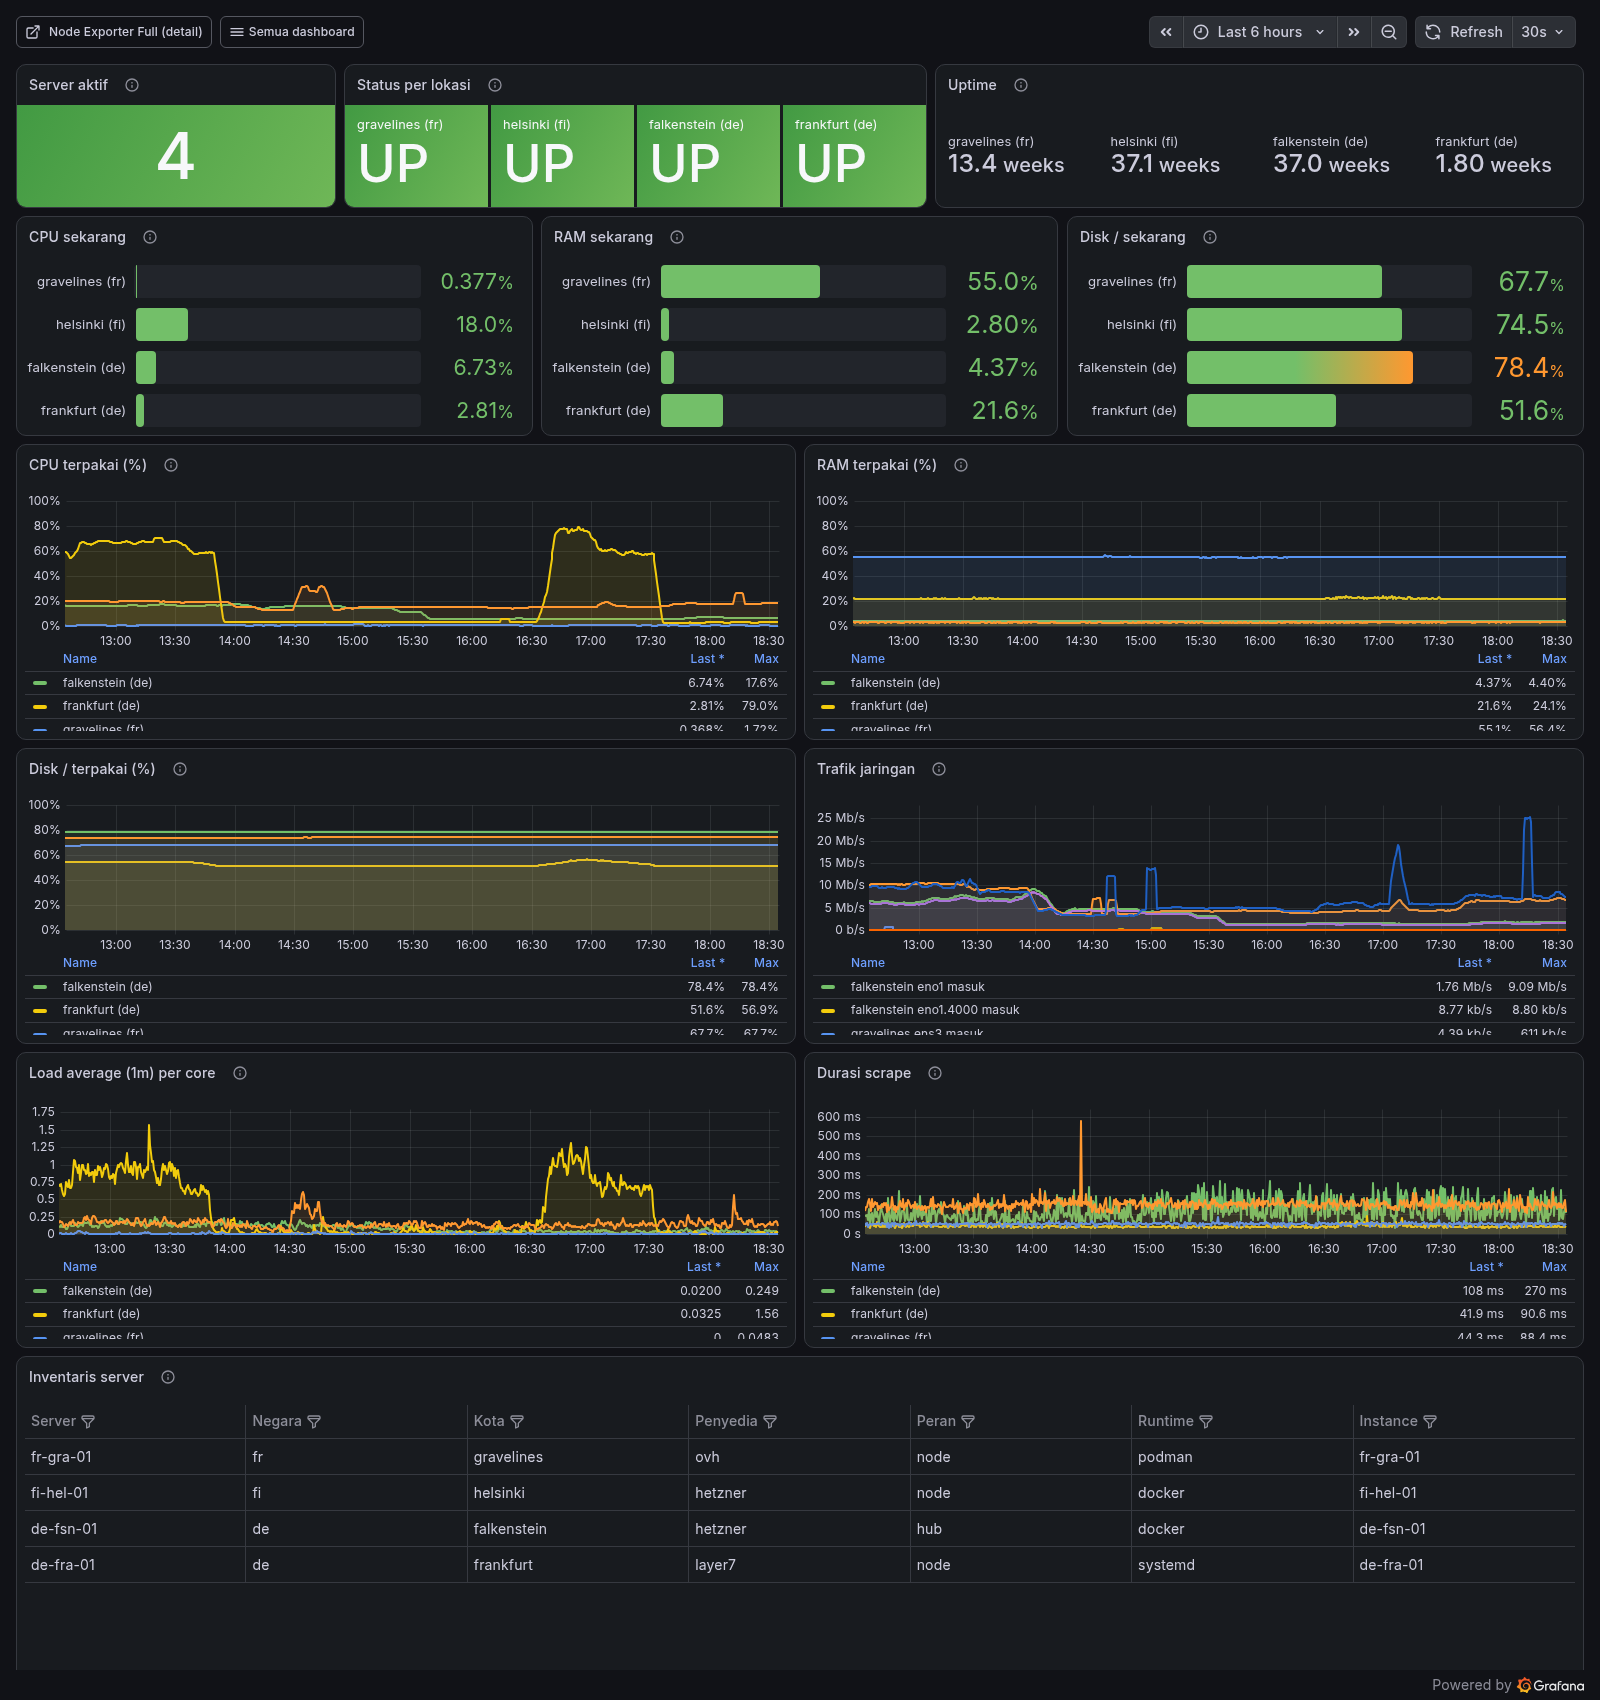
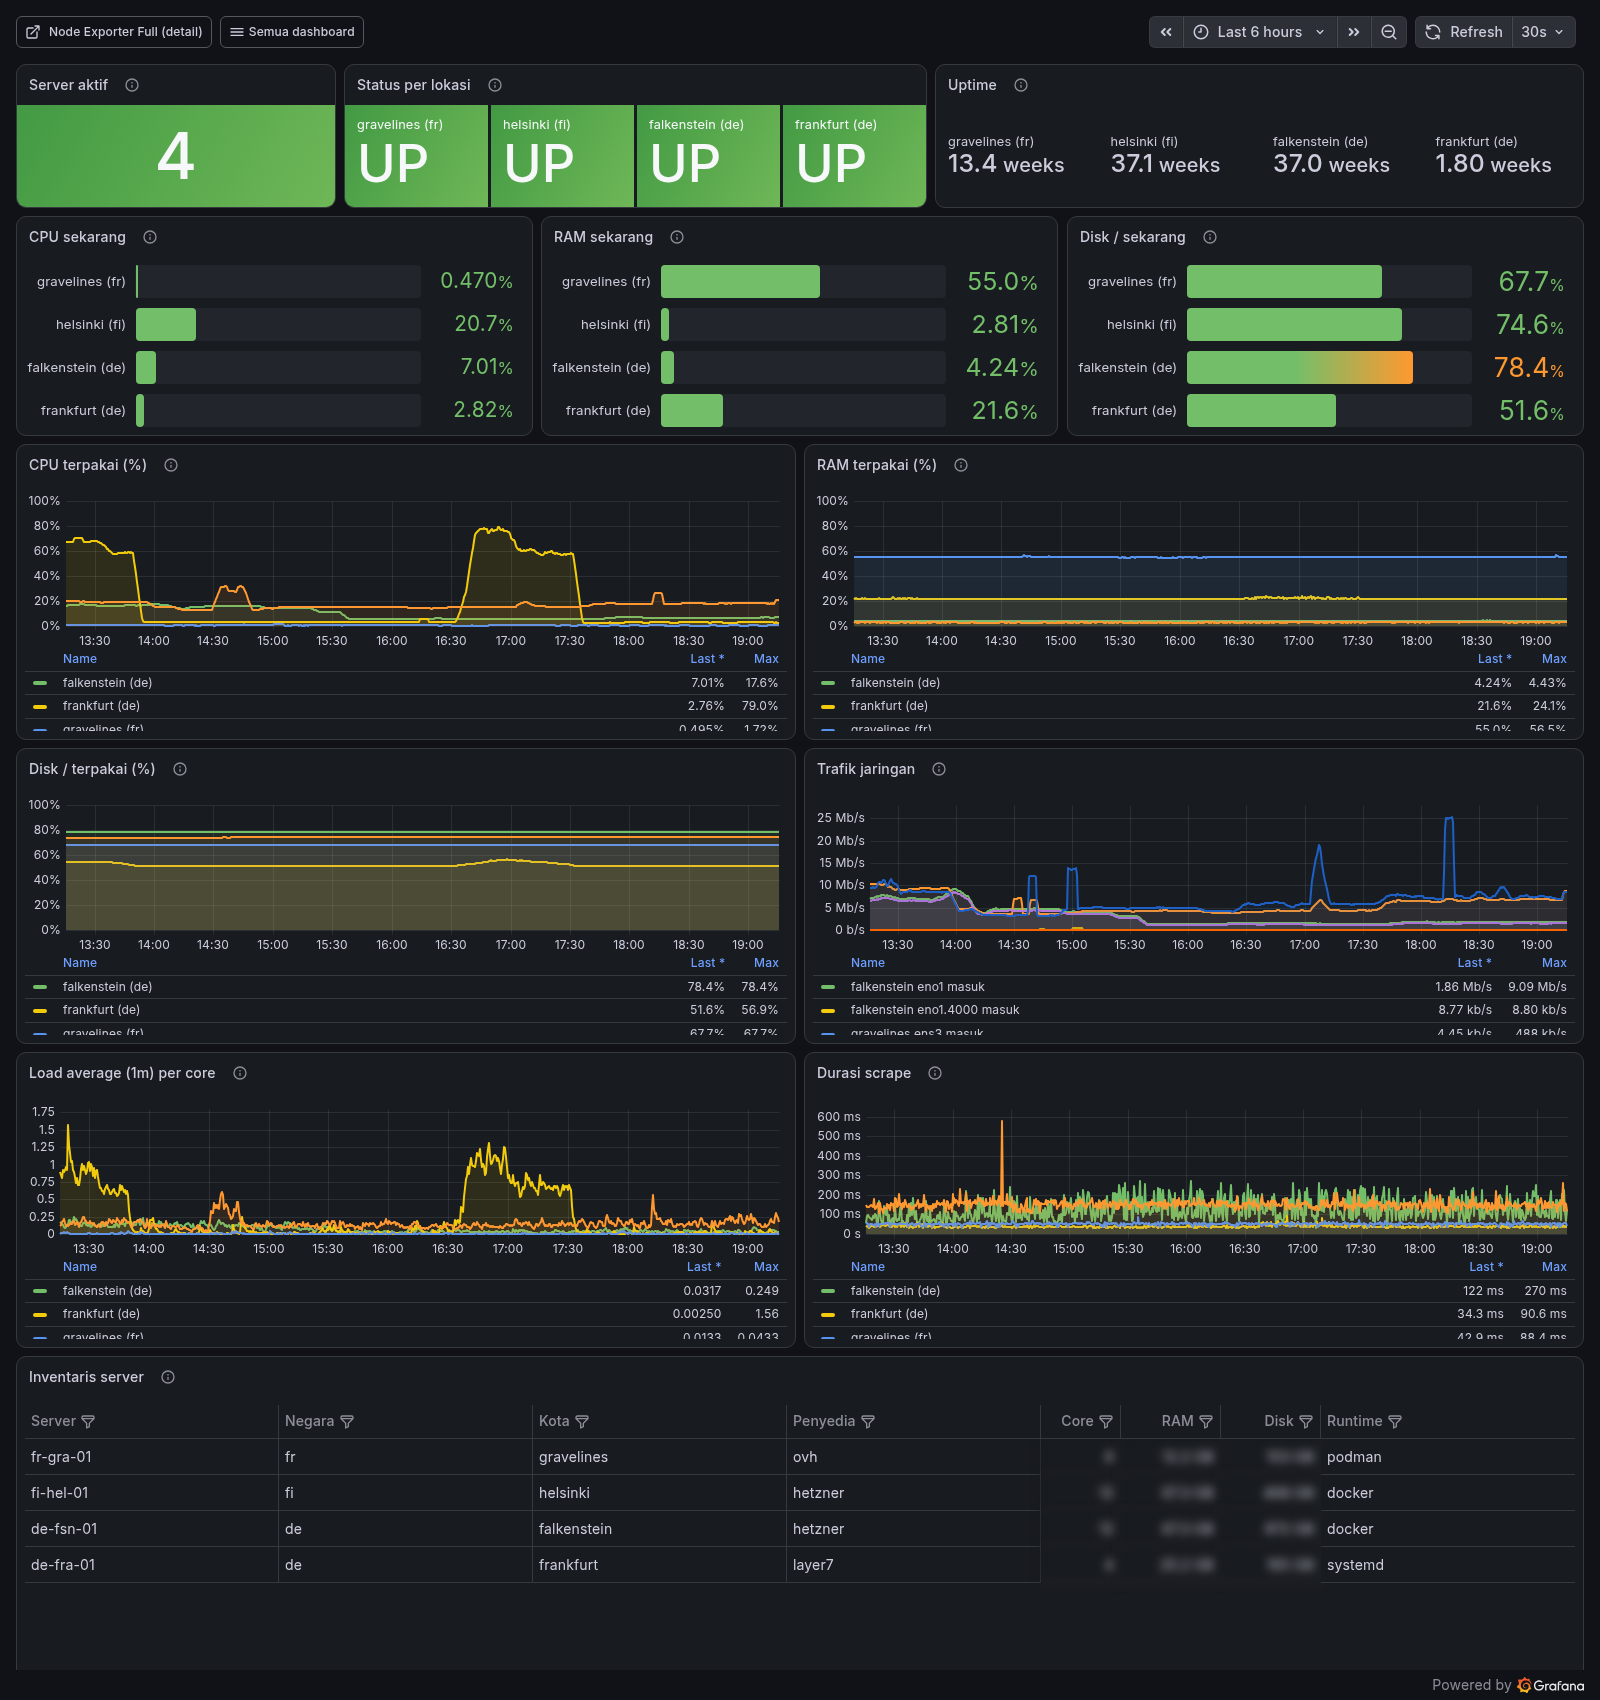
Add cores, RAM and disk to the inventory table
A percentage without scale misleads: 55% of a 12 GB host leaves
5.5 GB free, while 4% of a 67 GB host leaves 64 GB. The same 85%
alert threshold therefore means very different things across the
fleet, and the dashboard gave no way to tell them apart.

These are static facts, so they belong in the inventory table
rather than in panels of their own — a time-series dashboard is
for what changes.

The table now joins four instant queries on the server column:
the label set from up{}, plus core count, total memory and root
filesystem size. B, C and D aggregate by (server) so their other
labels are dropped and the join does not produce duplicate
columns.

In the screenshot the three new values are blurred while their
headers stay readable, so the table's shape is still clear.

diff --git a/screenshots/README.md b/screenshots/README.md
@@ -7,7 +7,7 @@ situation that shows them comes round again.
 
 | File | What it shows |
 |---|---|
-| `grafana-home.png` | The fixed-servers dashboard: four hosts up, CPU/memory/disk, trends, and the inventory table with every label as a column |
+| `grafana-home.png` | The fixed-servers dashboard: four hosts up, CPU/memory/disk, trends, and the inventory table. The cores/RAM/disk values are blurred; the column headers are left readable so the shape of the table is still clear |
 | `prometheus-targets.png` | All four targets UP, with the full label set per target |
 | `prometheus-alerts.png` | Seven alert rules loaded across three groups, all inactive |
 
@@ -45,6 +45,11 @@ viewport screenshot.
 **Wait for the queries, not for the clock.** A fixed delay catches
 Grafana mid-query and every panel renders blank. Wait until the
 "Cancel" button disappears.
+
+Column values are blurred the same way, found by locating the
+column index from `[role=columnheader]` and applying the blur to
+`[role=gridcell]` at that index — position in the data, not a
+guessed rectangle in the image. Headers stay readable on purpose.
 
 **IP addresses are masked in the DOM before the capture**, not
 blurred in the image afterwards: a tree walker finds text nodes
